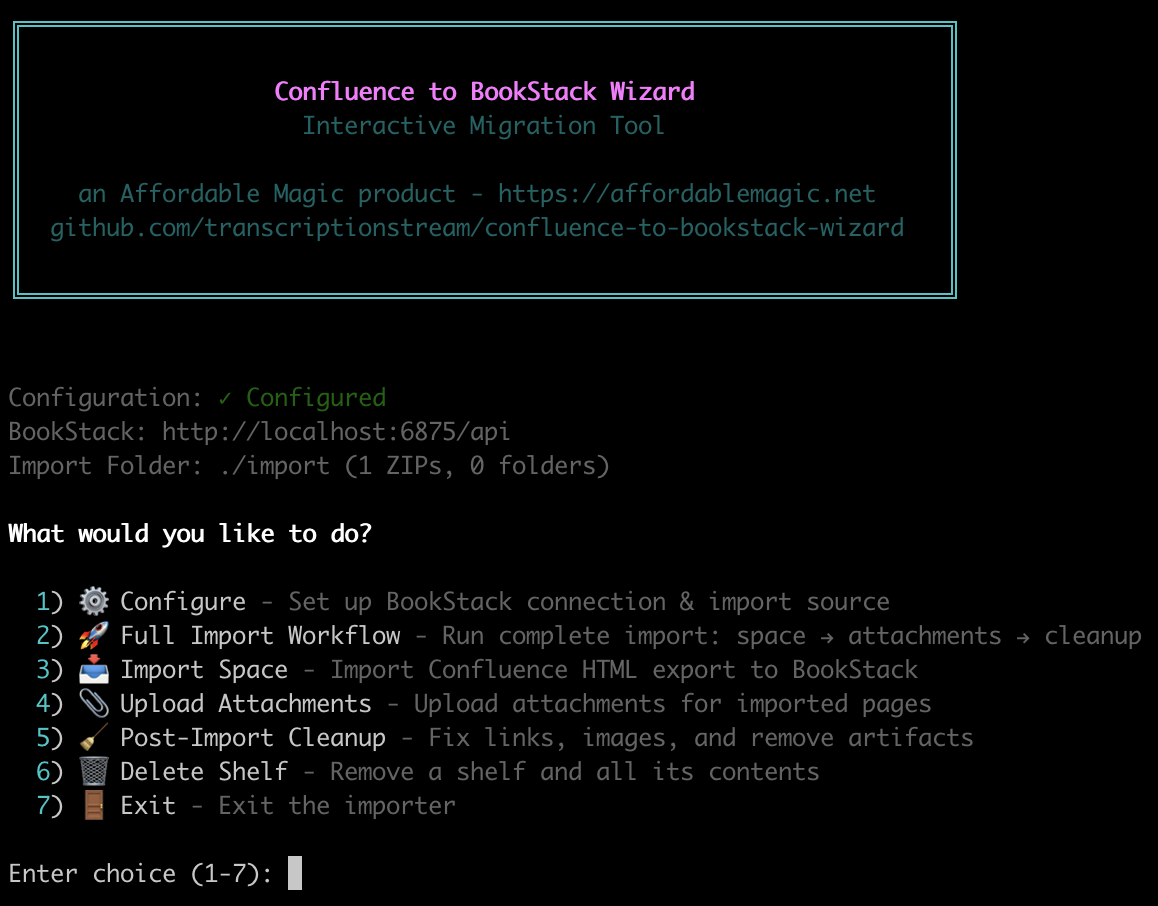
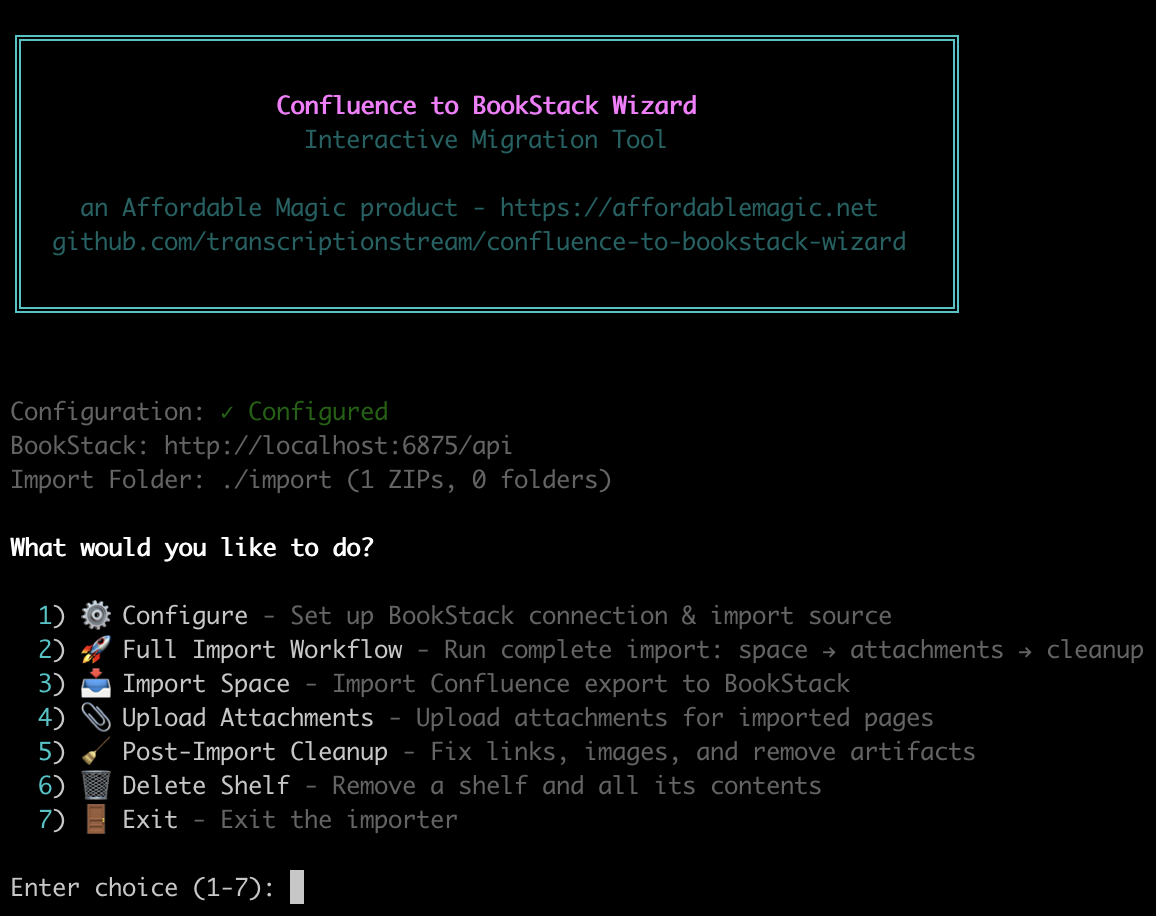
Update Import Space menu description and screenshot

diff --git a/app/setup.ts b/app/setup.ts
@@ -501,7 +501,7 @@ const showMainMenu = async (): Promise<string> => {
   return selectFromList('What would you like to do?', [
     { label: '⚙  Configure', value: 'configure', description: 'Set up BookStack connection & import source' },
     { label: '🚀 Full Import Workflow', value: 'workflow', description: 'Run complete import: space → attachments → cleanup' },
-    { label: '📥 Import Space', value: 'import', description: 'Import Confluence HTML export to BookStack' },
+    { label: '📥 Import Space', value: 'import', description: 'Import Confluence export to BookStack' },
     { label: '📎 Upload Attachments', value: 'attachments', description: 'Upload attachments for imported pages' },
     { label: '🧹 Post-Import Cleanup', value: 'cleanup', description: 'Fix links, images, and remove artifacts' },
     { label: '🗑  Delete Shelf', value: 'delete', description: 'Remove a shelf and all its contents' },
